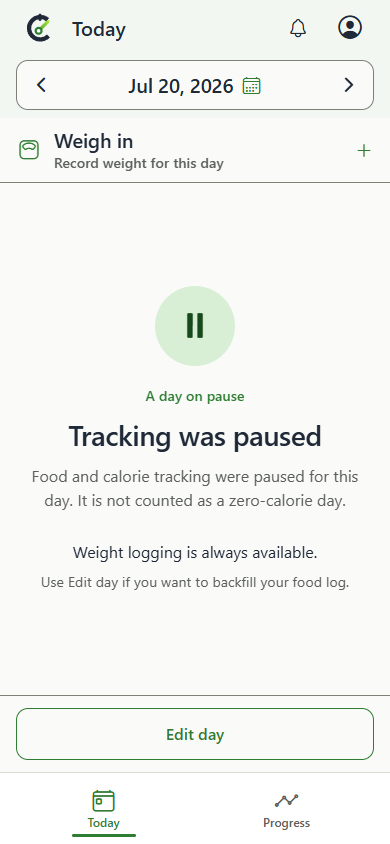
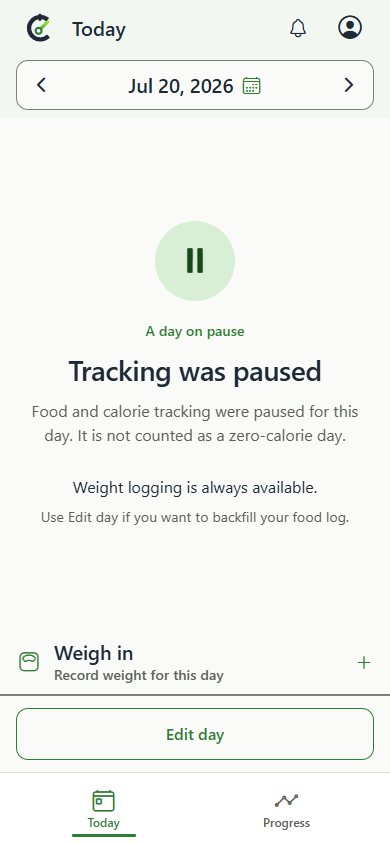
Group paused-day weight entry with bottom actions

diff --git a/mobile/app/(tabs)/(today)/today.tsx b/mobile/app/(tabs)/(today)/today.tsx
@@ -206,8 +206,8 @@ export default function TodayScreen() {
                 suppressStaleNotice
             >
                 {isPaused ? <PausedDayBody expanded={expanded}>
-                    <TodayWeightCard metric={selectedDateMetric} weightUnit={user?.weight_unit} isToday={isToday} onPress={openWeightEntry} />
                     <PausedDayMessage isToday={isToday} />
+                    <TodayWeightCard metric={selectedDateMetric} weightUnit={user?.weight_unit} isToday={isToday} onPress={openWeightEntry} />
                 </PausedDayBody> : <>
                     <ExpansionRegion id="weight" order={1}>
                         <TodayWeightCard metric={selectedDateMetric} weightUnit={user?.weight_unit} isToday={isToday} onPress={openWeightEntry} />

diff --git a/docs/visual-design.md b/docs/visual-design.md
@@ -87,7 +87,8 @@ a child beyond a narrow parent, since native hit testing would still stop at tha
   Paused tracking uses **Resume tracking** in the same action area. Keep incomplete/backfill and error
   recovery available without restoring a separate day-status card.
 - Paused days replace the balance and food preview with a spacious pause message and a prominent
-  pause symbol. Keep the date toolbar, weight entry, and action dock available. Today's message says
+  pause symbol. Keep the date toolbar available, with weight entry below the pause message and directly
+  above the action dock so the available actions stay together at the bottom. Today's message says
   **Tracking paused** and explains that food logging, targets, and reminders are on pause. Past days
   say **Tracking was paused**, explain that this is not a zero-calorie day, and retain **Edit day** for
   backfill. Weight logging is always available. Retained food entries do not restore the normal
